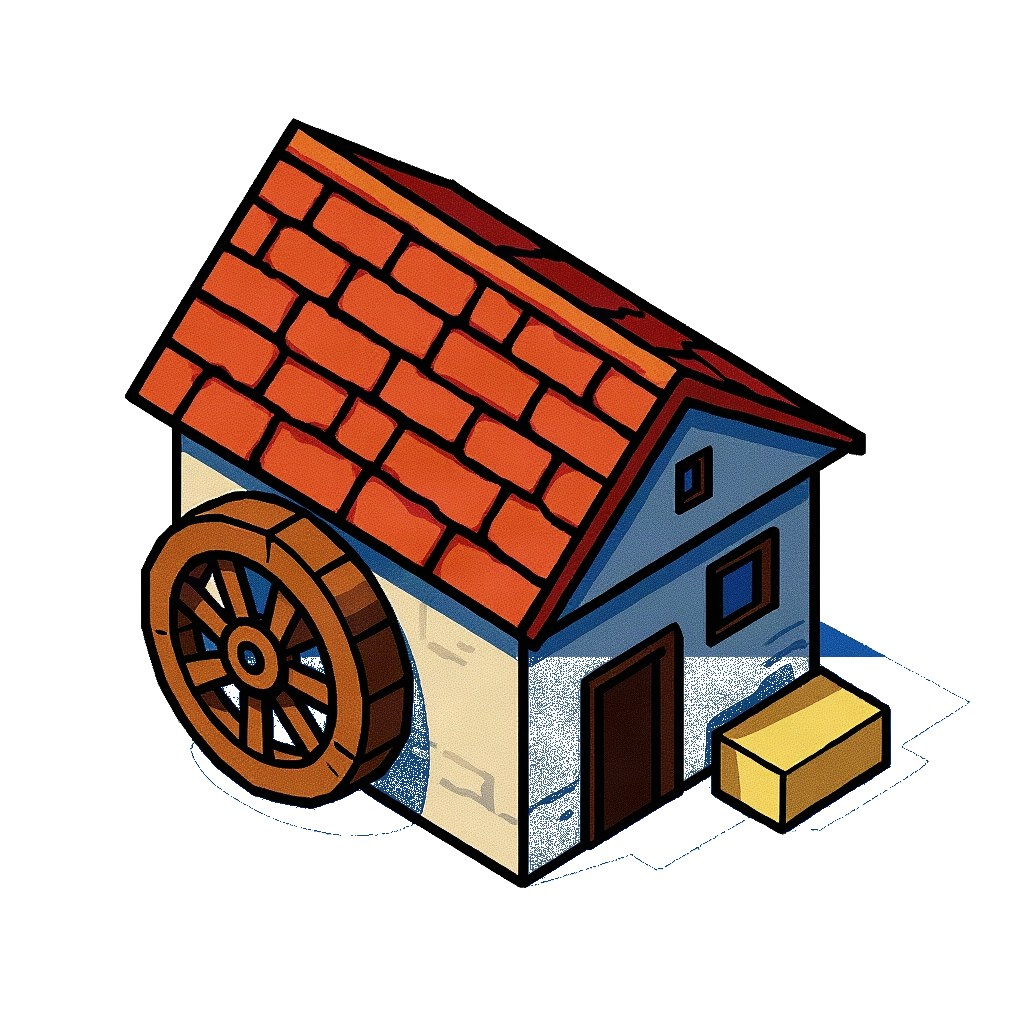
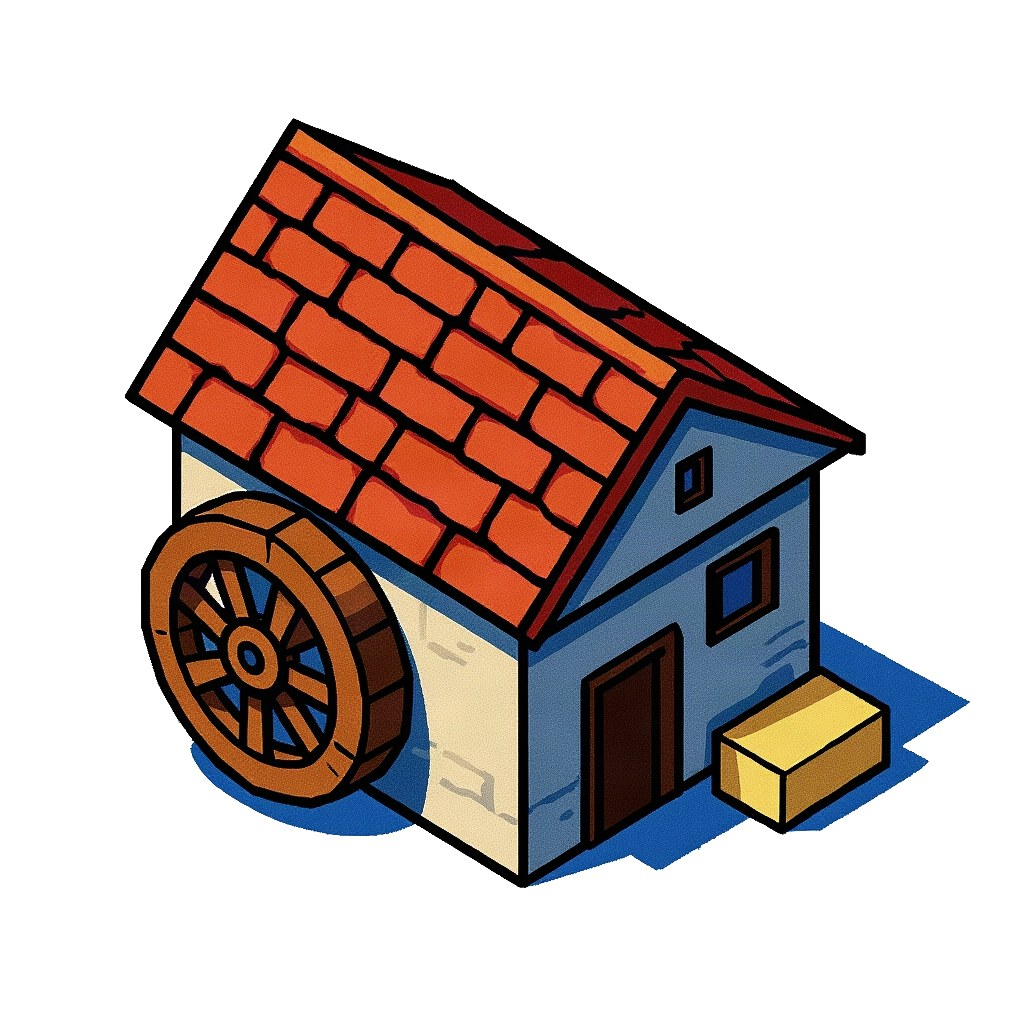
Painted-world tools: clean_paint keeps the painting untouched and uses a cleaned copy only for fitting; mill repainted without speckles
Claude-Session: https://claude.ai/code/session_01AHpeKXeN7kR8cuS8QPatS9

diff --git a/prototypes/cotk-painted/tools/fit.py b/prototypes/cotk-painted/tools/fit.py
@@ -30,7 +30,9 @@ for oid, m in proj.items():
     src = raw and os.path.join(raw, oid + '.png')
     if src and os.path.exists(src):
         b0 = bbox(os.path.join(HERE, 'assets/blockout', oid + '.png'))
-        b1 = bbox(src)
+        # '<id>_fit.png', if present, is a cleaned copy used only to measure the shape (the painting itself stays untouched)
+        fit_src = os.path.join(raw, oid + '_fit.png')
+        b1 = bbox(fit_src if os.path.exists(fit_src) else src)
         sx = (b1[1] - b1[0]) / (b0[1] - b0[0]); sy = (b1[3] - b1[2]) / (b0[3] - b0[2])
         ox = b1[0] - b0[0] * sx; oy = b1[2] - b0[2] * sy
         entry['xf'] = [round(float(v), 5) for v in (sx, sy, ox, oy)]
